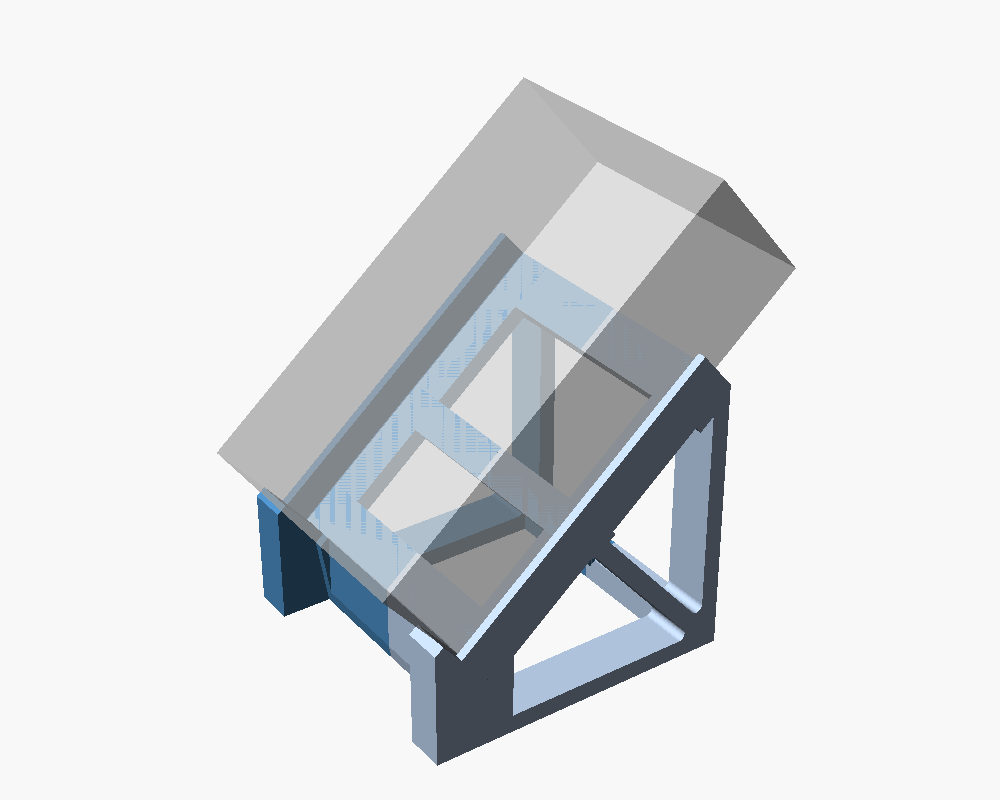
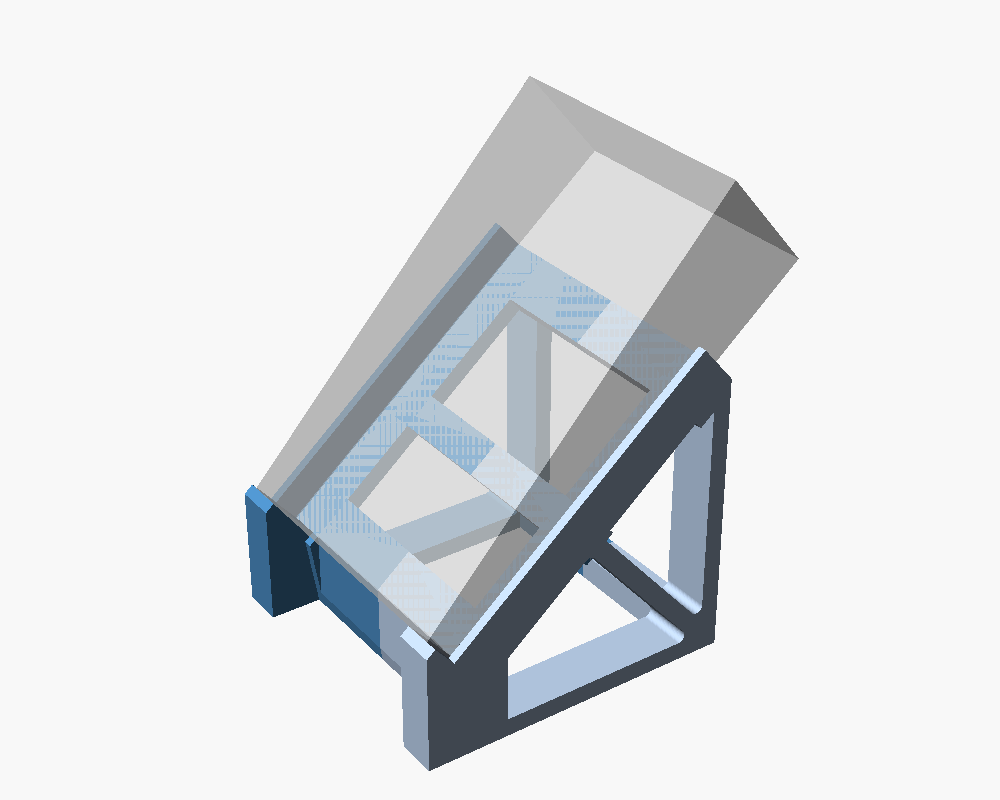
初代AG03の坂形の側面形状(手前28.0mm・奥54.3mm)を設計に反映
- 本体寸法に手前/奥の高さを追加し、組立プレビューを坂形に変更
- ストッパー・側板が本体の手前の高さを超えないことをassertで確認
- READMEの全高・重心・形状の説明を更新(印刷用STLの形状は変更なし)

Claude-Session: https://claude.ai/code/session_01BMznTnTpze8Ho1qE6Frkjr

diff --git a/3d/ag03-stand/README.md b/3d/ag03-stand/README.md
@@ -27,10 +27,10 @@ YAMAHA AG03（初代。AG03MK2 にも切替可）を **底面40°** に傾けて
 | 組立後の外形 | 幅 約138mm × 奥行 約133mm × 高さ 約142mm |
 | 本体手前下端の高さ | 35 mm（前面3.5mmプラグが机に当たらない逃げ） |
 | 手前ストッパーの高さ | 27.0 mm（本体底面から、前面に沿って）× 幅14mm（左右の角） |
-| 本体を乗せた全高 | 約 213 mm |
-| 重心 | 本体の重心は台の前端から約57mm（台の奥行約120mm の内側）→ 後ろにも前にも倒れにくい |
+| 本体を乗せた全高 | 約 206 mm |
+| 重心 | 本体（坂形）の重心は机の上で前脚の前面から約93mm・台の後端から約48mm（接地の奥行 約141mm の内側）→ 前にも後ろにも倒れにくい |
 
-初代 AG03 で設計（同梱STLはこの寸法）。幅は実機のノギス実測値 128.8 mm（公称 129）、高さ・奥行は公称 63 × 202 mm。側板の内側は 130.0 mm（片側すき間 0.6 mm）。AG03MK2（126 × 63 × 201 mm）に使う場合は `.scad` の `model = "AG03MK2";` に切り替えて書き出してください。
+初代 AG03 で設計（同梱STLはこの寸法）。幅 128.8 mm・手前の高さ 28.0 mm・奥の高さ 54.3 mm は実機のノギス実測値、奥行 202 mm は公称値。初代は天板が底面に対して約7.4°手前に傾いた坂形なので、底面40°に置くと操作面は約47.4°になります。側板の内側は 130.0 mm（片側すき間 0.6 mm）。AG03MK2（126 × 63 × 201 mm）に使う場合は `.scad` の `model = "AG03MK2";` に切り替えて書き出してください。
 
 ## 印刷設定（目安）
 
@@ -70,5 +70,5 @@ openscad -D 'part="half_b"' -o ag03_stand_half_b.stl ag03_stand.scad
 
 - 角度は **本体の底面** が水平から40°という定義です。
 - AG03 は底面がカーブしているため、手前ストッパーを高め（27mm）にして前面でしっかり受ける設計にしています。
-- 本体は簡単な箱としてモデル化しています。印刷前に実機の幅・前面端子の高さをノギスで測り、`dev_w`・`lip_h`・`H0` を確認してください。
+- 本体は側面が坂形の単純な立体（角の丸みなし）としてモデル化しています。手前ストッパー（27mm）は本体の手前の高さ（28mm）より1mm低いだけなので、前面の上の角が丸い場合は当たらないか実機で確認してください。
 - 机の上で滑る場合は、底面にシリコンのすべり止めシートを敷く（接着不要）のがおすすめです。
